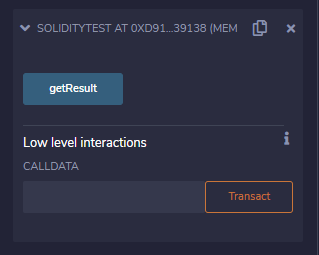
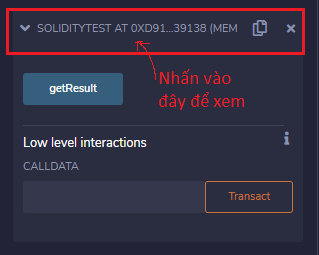
Update lesson 4

Changed region(s): [[0.0, 0.0275, 0.9592, 0.2471], [0.4796, 0.3569, 0.7618, 0.4392], [0.4796, 0.2745, 0.7335, 0.3294]]

diff --git a/4_FirstApplication.md b/4_FirstApplication.md
@@ -27,18 +27,30 @@ contract SolidityTest {
 ## Các bước chạy Solidity trên Remix IDE
 
 1. Tạo một tập tin .sol mới
+
 ![Hinh2](Images/Bai4/Hinh2.png)
+
 2. Sao chép đoạn mã trên vào khu vực soạn thảo của Remix IDE
+
 ![Hinh3](Images/Bai4/Hinh3.png)
+
 ![Hinh4](Images/Bai4/Hinh4.png)
-3. Ở menu *Solidity Compiler*, nhấn vào nút **Compile <tên file>.sol**
+3. Ở menu *Solidity Compiler*, nhấn vào nút **Compile <tên_file>.sol**
+
 ![Hinh5](Images/Bai4/Hinh5.png)
+
 4. Ở menu *Deploy & run Transactions*, nhấn vào nút **Deploy**
+
 ![Hinh6](Images/Bai4/Hinh6.png)
+
 ![Hinh7](Images/Bai4/Hinh7.png)
+
 5. Nhấn vào danh sách thả xuống có chữ **SOLIDITYTEST AT 0X...**
+
 ![Hinh8](Images/Bai4/Hinh8.png)
-6. Nhấn vào nút *getResult* để xem kết quả
+
+6. Nhấn vào nút **getResult** để xem kết quả
+
 ![Hinh9](Images/Bai4/Hinh9.png)
 
 ### Kết quả
